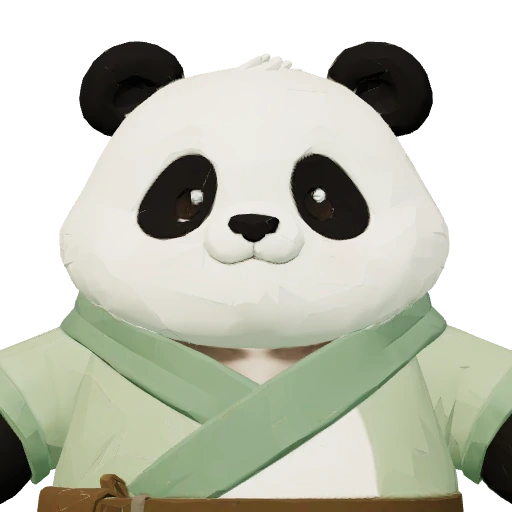
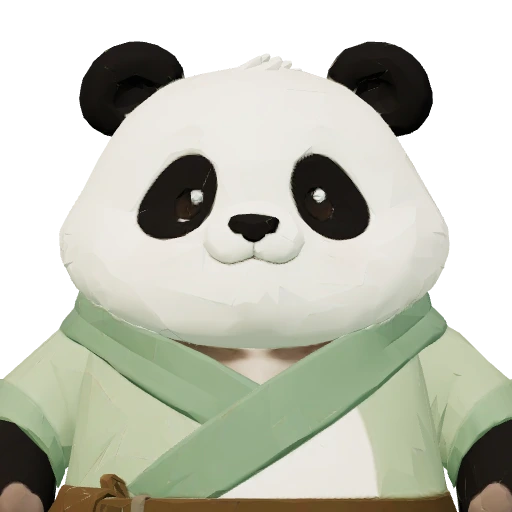
Fit selected Bao A neutral arms, wave and seated weights

diff --git a/apps/ui/assets-src/den/bao-review.html b/apps/ui/assets-src/den/bao-review.html
@@ -1,4 +1,4 @@
-<!doctype html><html><head><meta charset="utf-8"><title>Bao authoring review</title><style>body{margin:0;background:#f4efe3;color:#263d34;font:16px system-ui}canvas{display:block}aside{position:absolute;top:12px;left:12px;padding:12px;background:#fff9;border-radius:8px}button{margin:4px}</style></head><body><aside>Bao · Meshy A production · ticket 24<br><button onclick="review.pose('idle')">Idle</button><button onclick="review.pose('sit')">Sit</button><button onclick="review.pose('walk')">Walk</button><button onclick="review.pose('greeting')">Wave</button><button onclick="review.theme('dark')">Dark</button><button onclick="review.theme('light')">Light</button></aside><script type="module">
+<!doctype html><html><head><meta charset="utf-8"><title>Bao authoring review</title><style>body{margin:0;background:#f4efe3;color:#263d34;font:16px system-ui}canvas{display:block}aside{position:absolute;top:12px;left:12px;padding:12px;background:#fff9;border-radius:8px}button{margin:4px}</style></head><body><aside>Bao · Meshy A · authoring poses · ticket 24<br><span id=pose-label>Idle · authoring</span><br><button onclick="review.pose('idle')">Idle</button><button onclick="review.pose('sit')">Sit</button><button onclick="review.pose('walk')">Walk</button><button onclick="review.pose('greeting')">Wave</button><button onclick="review.theme('dark')">Dark</button><button onclick="review.theme('light')">Light</button></aside><script type="module">
 import * as T from 'three';
 import { loadModel, loadManifest } from '../../src/scene/meshy/assets.mjs';
 import { createPandaAppearanceFactory } from '../../src/scene/meshy/panda-appearance.mjs';
@@ -11,5 +11,5 @@ const fill=new T.DirectionalLight('#e4f1ff',.8);fill.position.set(3,3,3);scene.a
 const camera=new T.PerspectiveCamera(32,1024/768,.1,100);camera.position.set(4,3.2,8);camera.lookAt(0,1.5,0);
 const assets=await loadManifest(),body=await loadModel(assets.bao.url),bao=await loadModel(assets['characters.bao'].url);
 const factory=createPandaAppearanceFactory({body,characters:{bao}}),panda=factory.createPanda('orchestrator');panda.model.scale.setScalar(1);scene.add(panda.model);const gesture=createLeisureGesture(panda.rig);
-globalThis.review={panda,renderer,scene,camera,pose(kind,time=1.2){if(kind==='sit')panda.rig.poseSit(time);else if(kind==='walk')panda.rig.poseWaddle(time);else {panda.rig.poseIdle(time);gesture.pose(kind==='greeting'?'greeting':null,time);}renderer.render(scene,camera);},theme(theme){const dark=theme==='dark';scene.background.set(dark?'#202d30':'#f4efe3');hemi.intensity=dark?1.1:1.8;light.intensity=dark?1.5:2.3;renderer.render(scene,camera);},portrait(){const old={position:camera.position.clone(),quaternion:camera.quaternion.clone(),background:scene.background};const c=new T.OrthographicCamera(-1.05,1.05,1.05,-1.05,.1,20);c.position.set(0,2.12,6);c.lookAt(0,2.12,0);scene.background=null;renderer.setSize(512,512);panda.rig.poseIdle(0);renderer.render(scene,c);const data=renderer.domElement.toDataURL('image/webp',.92);renderer.setSize(1024,768);scene.background=old.background;renderer.render(scene,camera);return data;}};review.pose('idle',0);globalThis.ready=true;
+globalThis.review={panda,renderer,scene,camera,pose(kind,time=1.2){document.getElementById('pose-label').textContent=kind==='sit'?'Sit · authoring only; Bao stands in the den':kind+' · authoring';if(kind==='sit')panda.rig.poseSit(time);else if(kind==='walk')panda.rig.poseWaddle(time);else {panda.rig.poseIdle(time);gesture.pose(kind==='greeting'?'greeting':null,time);}renderer.render(scene,camera);},theme(theme){const dark=theme==='dark';scene.background.set(dark?'#202d30':'#f4efe3');hemi.intensity=dark?1.1:1.8;light.intensity=dark?1.5:2.3;renderer.render(scene,camera);},portrait(){const old={position:camera.position.clone(),quaternion:camera.quaternion.clone(),background:scene.background};const c=new T.OrthographicCamera(-1.05,1.05,1.05,-1.05,.1,20);c.position.set(0,2.12,6);c.lookAt(0,2.12,0);scene.background=null;renderer.setSize(512,512);panda.rig.poseIdle(0);renderer.render(scene,c);const data=renderer.domElement.toDataURL('image/webp',.92);renderer.setSize(1024,768);scene.background=old.background;renderer.render(scene,camera);return data;}};review.pose('idle',0);globalThis.ready=true;
 </script></body></html>

diff --git a/docs/research/team-and-den-ux-24/meshy-production.md b/docs/research/team-and-den-ux-24/meshy-production.md
@@ -1,14 +1,14 @@
-# Selected Bao A: partial production checkpoint
+# Selected Bao A: rig fitting checkpoint
 
 User chose Meshy A. The selected source is now remeshed and packaged with its
 textured face, robe, jade sash and pouch. The replacement stays confined to Claude
 orchestrators; Jiao retains the original Codex source and portrait. No layout,
 camera, router, installed service, dependency or purchase changes.
 
-**Motion fitting is unfinished.** This is a WIP checkpoint, not a request to accept
-the replacement. The new actual-mesh wave regression remains red. Native neutral
-scene and portrait renders are useful for the next continuation but do not waive
-the motion, fit, hardware or independent review gates.
+The retained actual-mesh wave regression and the new static-rest/cycle checks now
+pass. This is a fitting checkpoint; furniture clearance, matched performance,
+independent review and the user's visual verdict remain pending. No further paid
+stages were run during fitting.
 
 ## Reproduce
 
@@ -47,41 +47,47 @@ checked2026-10-20: <https://docs.meshy.ai/en/api/pricing>.
 | Unique atlas | one512×512WebP; matte color only |
 | Estimated RGBA8 + mip atlas allocation | 1,398,101bytes (1.33MiB) |
 
-`fitting.json` sweeps0.2s samples through4.8s of idle, sit, walk, tea, greeting,
-pond and mahjong/work gestures. All published outer envelopes and floor limits
-pass. This measures geometry, not correct deformation or collision clearance.
+The updated measurement script sweeps25 frames per state through4.8s of idle,
+work, sit, walk, tea, greeting, pond and mahjong. It checks outer/head envelopes,
+floor limits and actual surface-edge stretch. Pass an output path to retain prior
+evidence. The head radius follows the source's upper-head vertices, rather than
+mistaking a raised paw for part of the head.
 It does not establish desk, conversation or meeting-chair fit. Bao's current
 runtime host anchor has no chair and remains standing; seated renders are
 authoring previews only.
 
-## Exact motion finding
+## Motion findings and changes
 
-The legacy profile initially rotated the raised paw toward the torso. A Bao-only
-positive greeting direction corrects that. A second actual-mesh check detects
-sleeve stretching under the inherited shoulder/weight bands. The WIP Bao profile
-contains selected-A shoulder anchors and wider arm weights plus a bounded
-shoulder/elbow greeting. Its current paw centroid reaches only1.916rigunits in
-the tested frame, below the2.2 threshold. The edge-stretch assertion remains
-unchanged and must also pass after fixing the pose. Do not disable this test or
-claim that finite outer bounds prove satisfactory motion.
+The inherited shoulder pivot was too far out and low. Moving it from[1,1.5] to
+[.8,1.65] and removing the compensating elbow rotation raises the test-frame paw
+centroid from1.916 to2.250, above the retained2.2 threshold. A broader sleeve blend
+with a sloping underarm excludes the robe hem/pouch; peak wave edge stretch is
+2.156× across the sampled cycle, below the unchanged3× limit. Broader inner-thigh
+weights reduce seated robe/leg stretch from4.419× to2.687×. Idle/work and walking
+peak at1.486× and1.734× respectively. These are deformation guards, not aesthetic
+acceptance or collision tests.
 
-Next developer should fit the arm from the retained selected-A geometry, verify
-all gesture phases and native wave deformation, then rerender the portrait and
-all authoring/scene captures if the neutral pose changes. The shared gesture
-defaults preserve every other character's existing direction and amplitude.
+Bao's fitted arm drop is.65. It opts into retaining that resting posture when
+reduced motion stops ambient animation; the mesh exactly matches normal idle at
+time0 and stays still across time and stopped walking. Other character profiles
+retain their existing static defaults. Normal work uses the existing idle posture.
+The atlas, geometry/UVs, costume, other identities and runtime bindings stay intact.
 
 ## Evidence and remaining gates
 
-Native captures live under the existing visualization root in
-`ticket24-meshy-production/`. `capture-authoring.cjs` captures five named poses in
+Prior native captures live under the existing visualization root in
+`ticket24-meshy-production/`; fitting captures use a new `ticket24-meshy-fit/`
+folder. `capture-authoring.cjs` captures five named poses in
 both themes, a side render and a face-plus-robe portrait. The work authoring pose
 uses the runtime's idle working posture. `capture-review.cjs` captures the actual
 instrumented den, native Team40/62px portraits, a separate48/72px sheet, forced
 fallback, near/overview, meeting and first-person views. Synthetic bridge events
 are read-only and do not claim live backend action verification.
 
-No full timed before/after GPU/frame/heap run has started. The new atlas probably
-adds1.33MiB while legacy textures remain for Jiao and others. The aggregate
+No full timed before/after GPU/frame/heap run has started. The new atlas likely
+adds1.33MiB while legacy textures remain for Jiao and others. The bounded capture
+harness now observes GL texture storage calls for a matched loaded/fallback pair;
+results will accompany the new checkpoint. The aggregate
 no-increase target remains unwaived; compare matched live allocations before
 proposing a measured exception. Ticket23's separate allowance does not apply.
 Full fitting/state/action checks, five disposal cycles, hardware comparison,
